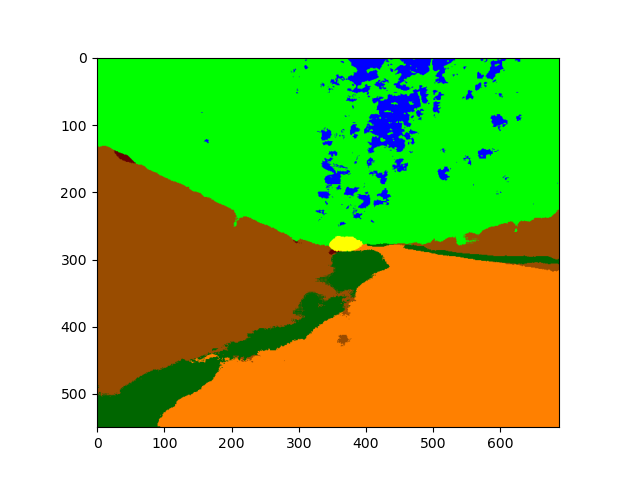
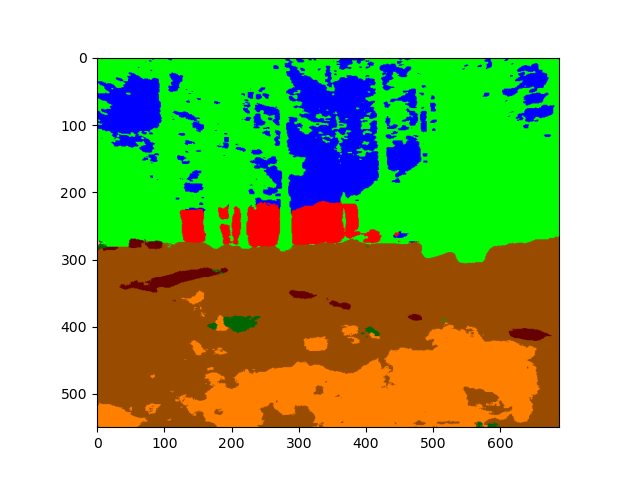
RUGD images

diff --git a/deeplab_fcn/visualize.py b/deeplab_fcn/visualize.py
@@ -21,7 +21,7 @@ if __name__ == '__main__':
     RUGD_mask = Path('/home/konsta/PycharmProjects/Segmentation/RUGD_mask.png')
     FOREST_img = Path('/home/konsta/PycharmProjects/Segmentation/FOREST_img.jpg')
     FOREST_mask = Path('/home/konsta/PycharmProjects/Segmentation/FOREST_mask.png')
-    path_model_RUGD = Path('checkpoints/FCN_RUGD30.pth')
+    path_model_RUGD = Path('checkpoints/DLV3_RUGD30.pth')
     path_model_FOREST = Path('checkpoints/FCN_Forest30.pth')
 
     if RUGD:
@@ -37,8 +37,8 @@ if __name__ == '__main__':
         path_mask = FOREST_mask
         path_model = path_model_FOREST
 
-    #model = models.deeplabv3_resnet50(num_classes=num_classes)
-    model = models.fcn_resnet50(num_classes=num_classes)
+    model = models.deeplabv3_resnet50(num_classes=num_classes)
+    #model = models.fcn_resnet50(num_classes=num_classes)
     image = Image.open(path_img)
     mask_img = Image.open(path_mask)
 
